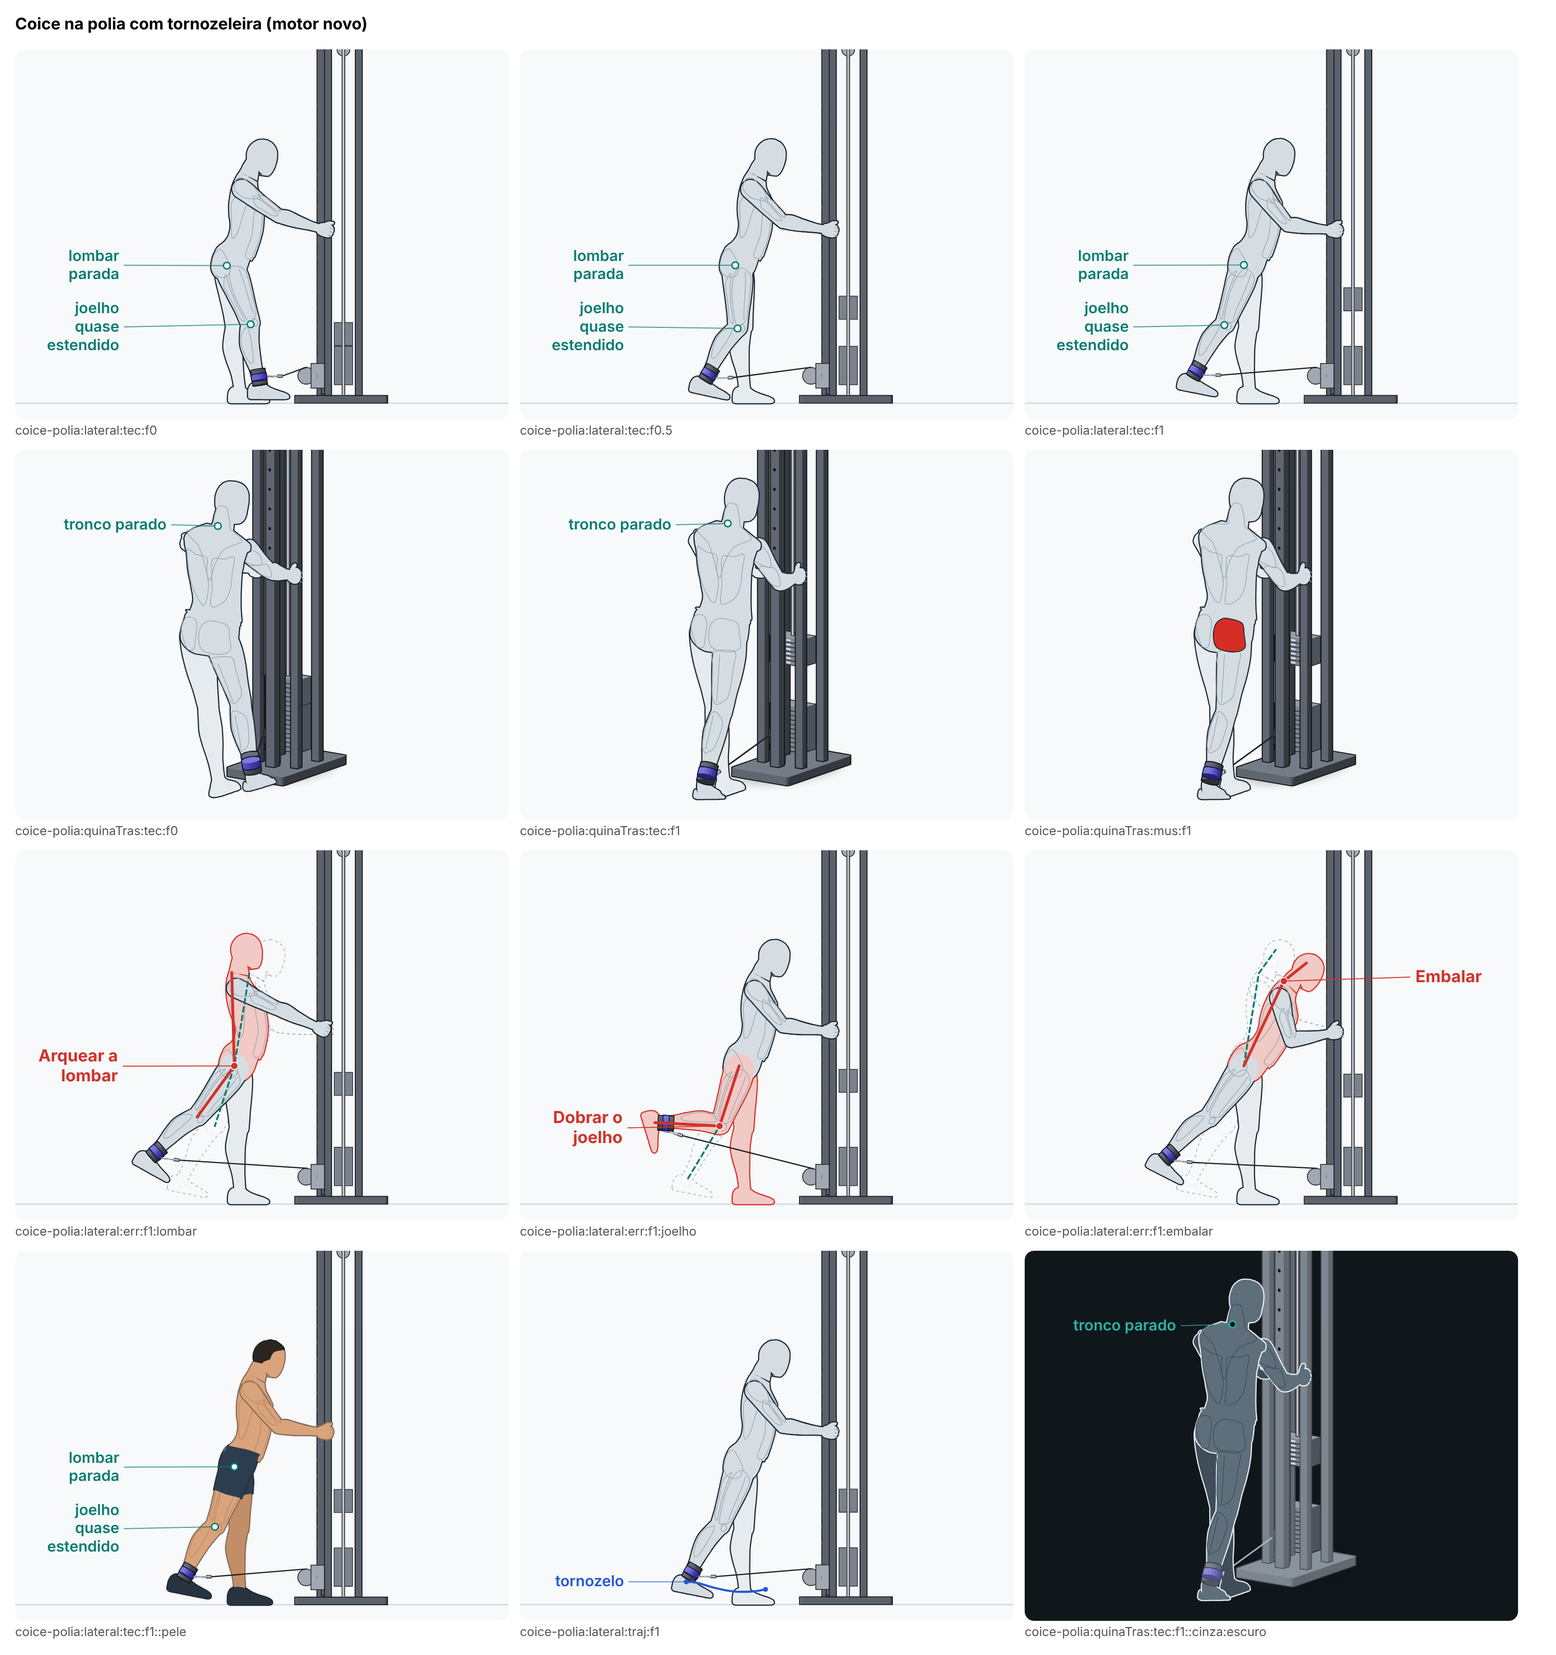
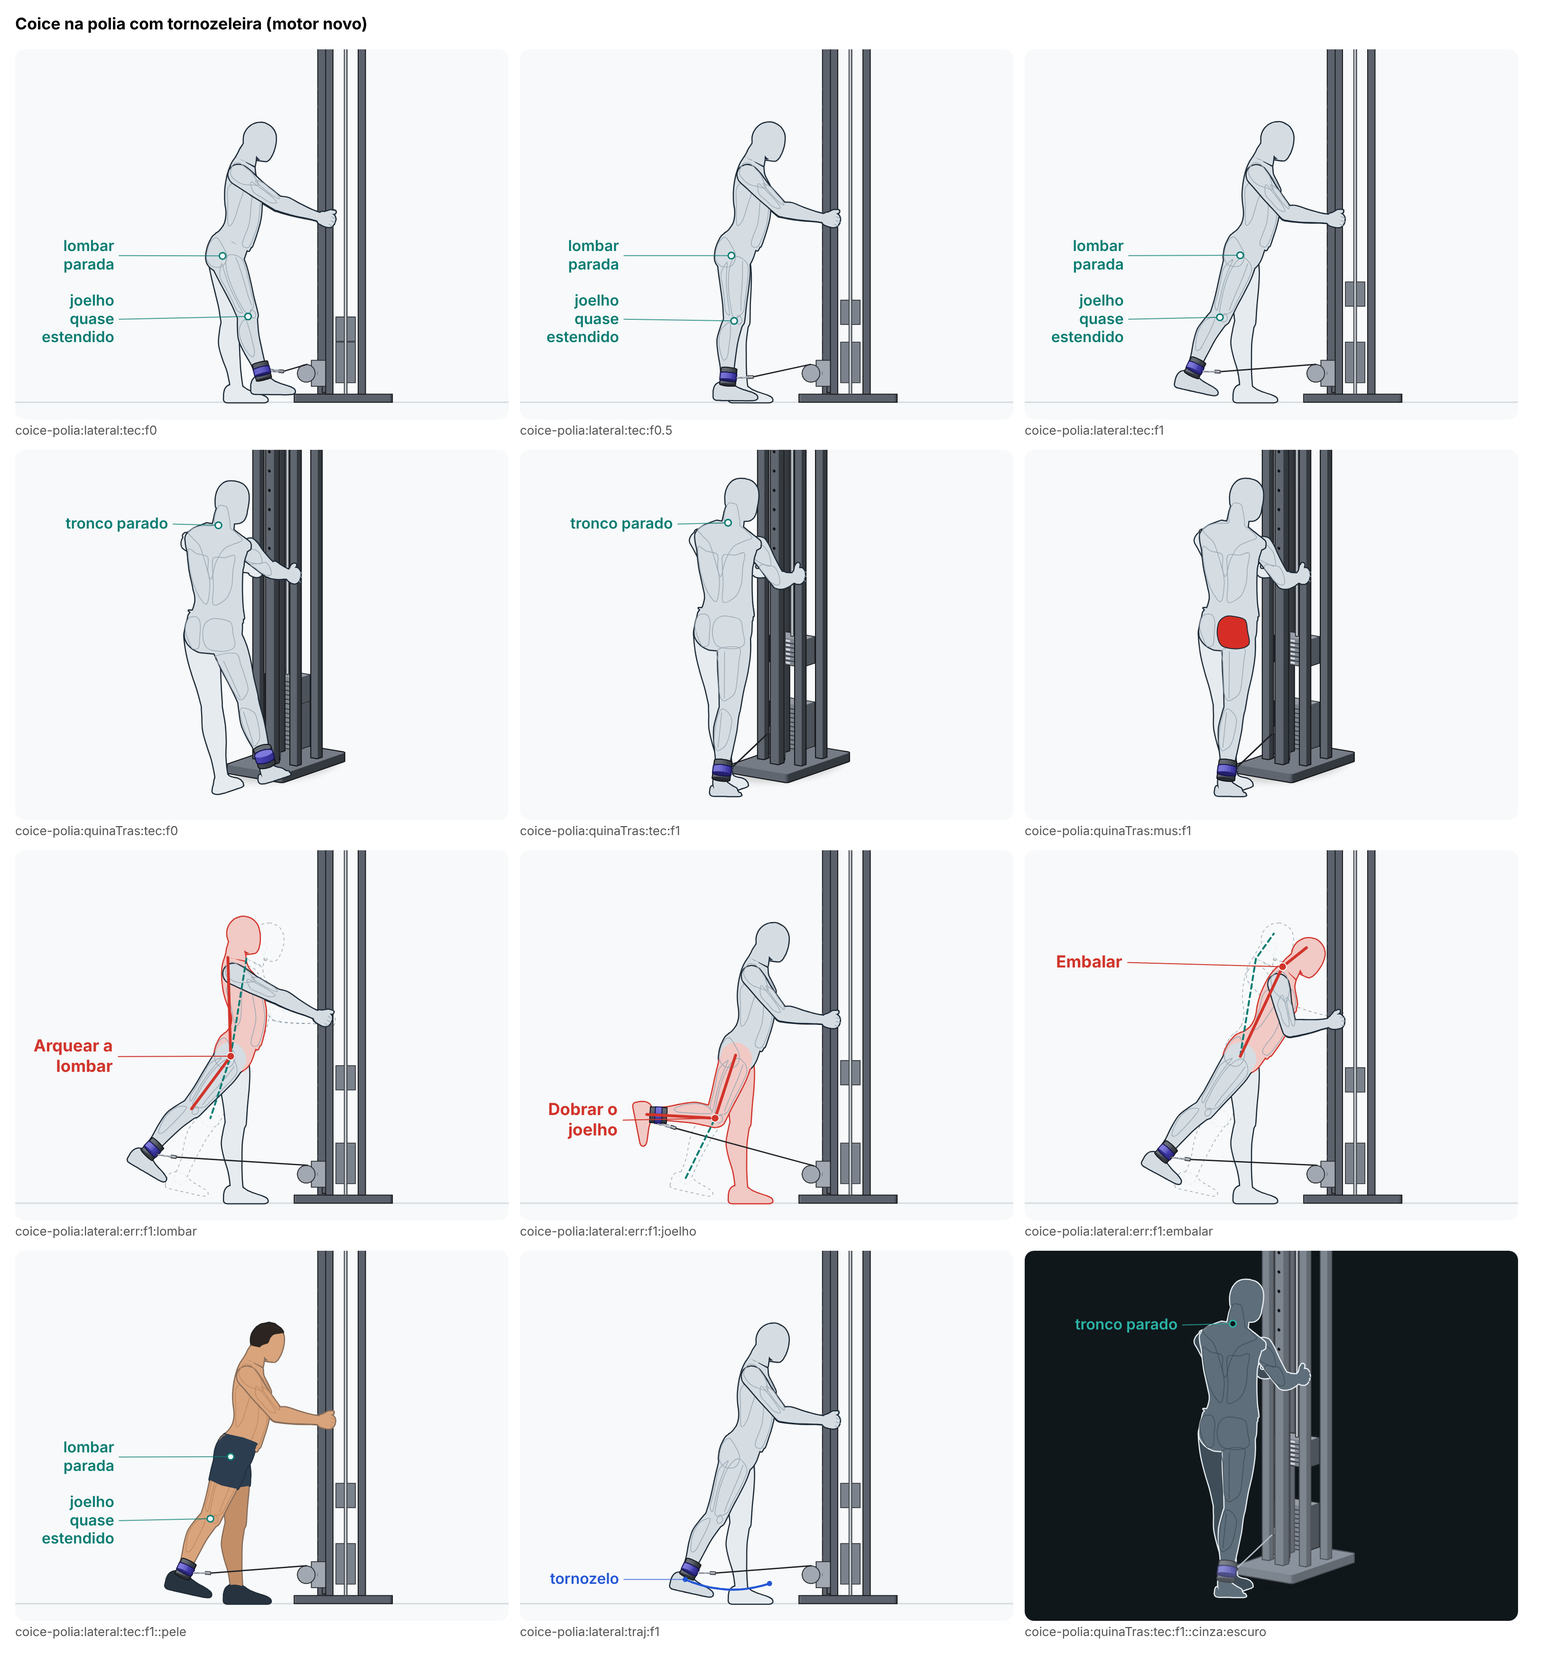
Coice na polia: joelho quase estendido o ciclo todo
O joelho que trabalha dobrava 34° no meio do chute, contra o rótulo
"joelho quase estendido". Agora fica em 8° o ciclo todo: a bacia sobe 4°
do lado que trabalha, em volta do quadril de apoio, parada, e a coluna
devolve a inclinação (o tórax fica reto); o pé passa a 1 cm do chão. A
regra mede o joelho em todos os quadros (até 15°). As regras dos avulsos
ganham também a dos pegadores do abdominal na máquina.

Claude-Session: https://claude.ai/code/session_01YRzts8DBGbsca9onebcMt1

diff --git a/src/engine/novo/regras/avulsos-c3.ts b/src/engine/novo/regras/avulsos-c3.ts
@@ -153,6 +153,44 @@ export const REGRAS_AVULSOS_C3: Record<string, Regra> = {
     const [, pior] = faixa(d);
     return { medido: `o centro da pegada fica a no máximo ${f1(pior)} cm do pegador, ${fecha ? 'com a mão fechada nele' : 'SEM a mão fechada'}; em relação ao tórax, a mão anda ${f1(anda)} cm e o cotovelo vai de ${f1(c0)}° a ${f1(c1)}°`, ok: pior <= 0.5 && fecha && anda <= 8 && c1 - c0 <= 15 };
   },
+  'abdominal-maquina-pegadores-livres-do-corpo': (q) => {
+    // dos dois lados: a haste do braço da máquina (do eixo à almofada), a haste que sai da ponta de baixo da almofada e
+    // a empunhadura não encostam no corpo (fora a mão que segura e o punho dela) e ficam longe do rosto (a cabeça)
+    const esp = obj('abdominalMaquina', 'estofadoEsp'),
+      C = obj('abdominalMaquina', 'almofadaComp'),
+      P = obj('abdominalMaquina', 'pegadorComp');
+    const seg = (p: V3, a: V3, b: V3) => {
+      const ab = sub(b, a);
+      const t = Math.max(0, Math.min(1, dot(sub(p, a), ab) / (dot(ab, ab) || 1)));
+      return dist(p, [a[0] + ab[0] * t, a[1] + ab[1] * t, a[2] + ab[2] * t]);
+    };
+    let corpo = 1e9,
+      rosto = 1e9,
+      onde = '';
+    for (const x of q.filter((_, i) => i % 3 === 0 || i === q.length - 1))
+      for (const k of ['R', 'L'] as const) {
+        const c = x.marcas[`almofada.${k}`]!,
+          n = x.marcas[`almofadaNormal.${k}`]!,
+          ao = x.marcas[`almofadaAo.${k}`]!,
+          pc = x.marcas[`pegador.${k}`]!,
+          pe = x.marcas[`pegadorEixo.${k}`]!;
+        const raiz: V3 = [c[0] + ao[0] * (-C / 2 + 2) + n[0] * esp, c[1] + ao[1] * (-C / 2 + 2) + n[1] * esp, c[2] + ao[2] * (-C / 2 + 2) + n[2] * esp];
+        const base: V3 = [pc[0] - pe[0] * (P / 2 + 3), pc[1] - pe[1] * (P / 2 + 3), pc[2] - pe[2] * (P / 2 + 3)];
+        const ponta: V3 = [pc[0] + pe[0] * (P / 2), pc[1] + pe[1] * (P / 2), pc[2] + pe[2] * (P / 2)];
+        const haste = [0, 1, 2, 3, 4].map((i) => x.marcas[`haste.${k}.${i}`]!);
+        for (const { p, parte } of pontosDoBoneco(x.esq)) {
+          // da pele à superfície de cada tubo (a haste do braço tem 5 cm; a do pegador, 3,5; a empunhadura, o diâmetro dela)
+          const d = Math.min(seg(p, raiz, base) - 1.75, seg(p, base, ponta) - obj('abdominalMaquina', 'pegadorDiam') / 2, ...[0, 1, 2, 3].map((i) => seg(p, haste[i]!, haste[i + 1]!) - 2.5));
+          if (parte === 'cabeca') rosto = Math.min(rosto, d);
+          const daMao = (['R', 'L'] as const).some((j) => ((parte === 'mao' || parte === 'polegar') && dist(p, x.esq.lado[j].pegada) < 14) || (parte === 'ante' && dist(p, x.esq.lado[j].punho) < 8));
+          if (!daMao && d < corpo) {
+            corpo = d;
+            onde = `${parte}, ${k === 'R' ? 'direito' : 'esquerdo'}`;
+          }
+        }
+      }
+    return { medido: `nos dois lados, as hastes do braço da máquina e dos pegadores e a empunhadura ficam a no mínimo ${f1(corpo)} cm da pele (${onde}; fora a mão que segura) e a ${f1(rosto)} cm da cabeça`, ok: corpo >= 0.5 && rosto >= 10 };
+  },
   'abdominal-maquina-pes-presos': (q) => {
     // os dois pés: o peito de cada um sob o rolo do seu lado (dentro do comprimento dele), encostado
     const x = primeiro(q);
@@ -210,11 +248,9 @@ export const REGRAS_AVULSOS_C3: Record<string, Regra> = {
     return { medido: `de lado, a coxa vai de ${f1(frente(a))}° à frente da vertical a ${f1(-frente(b))}° atrás dela, ${f1(Math.abs(passa))}° ${passa >= 0 ? 'além' : 'antes'} da linha do corpo (que desce dos ombros ao quadril)`, ok: frente(a) >= 10 && passa >= 0 && passa <= 12 };
   },
   'coice-polia-joelho-quase-estendido': (q) => {
-    // nas pontas do caminho, quase estendido; no meio, quando o pé passa embaixo do quadril, ele pode dobrar um pouco
-    // para o pé não raspar o chão (como no passo), sem virar uma flexora
+    // o joelho que trabalha quase estendido em todos os quadros (o limite vem da ficha de movimento: `joelho.maximo`)
     const [a, b] = faixa(q.map((x) => x.esq.lado.R.ang.joelho));
-    const pontas = Math.max(primeiro(q).esq.lado.R.ang.joelho, ultimo(q).esq.lado.R.ang.joelho);
-    return { medido: `o joelho da perna que trabalha dobra ${f1(pontas)}° no máximo nas pontas do caminho e de ${f1(a)}° a ${f1(b)}° no caminho todo`, ok: pontas <= 15 && b <= 35 };
+    return { medido: `o joelho da perna que trabalha dobra de ${f1(a)}° a ${f1(b)}° no caminho todo`, ok: b <= 15 };
   },
   'coice-polia-tronco-parado-a-frente': (q) => {
     const peito = (e: Esq) => (Math.atan2(e.torax.y[2], e.torax.y[1]) * 180) / Math.PI;
@@ -223,11 +259,14 @@ export const REGRAS_AVULSOS_C3: Record<string, Regra> = {
     return { medido: `o peito fica de ${f1(a)}° a ${f1(b)}° à frente da vertical; a lombar dobra no mínimo ${f1(lombar)}° além da curva de repouso (negativo = arqueia)`, ok: a >= 5 && b <= 25 && b - a <= 1.5 && lombar >= -1 };
   },
   'coice-polia-bacia-nao-gira': (q) => {
+    // a bacia não gira nem rola no ciclo (o pouco que ela sobe do lado que trabalha fica parado), o tórax fica reto e a
+    // coxa não abre para o lado
     const graus = (x: number) => (Math.asin(Math.max(-1, Math.min(1, x))) * 180) / Math.PI;
-    const rola = Math.max(...q.map((x) => Math.abs(graus(x.esq.pelve.x[1]))));
+    const [r0, r1] = faixa(q.map((x) => graus(x.esq.pelve.x[1])));
     const gira = Math.max(...q.map((x) => Math.abs(graus(x.esq.pelve.z[0]))));
+    const torax = Math.max(...q.map((x) => Math.abs(graus(x.esq.torax.y[0]))));
     const abre = Math.max(...q.map((x) => Math.abs(angulosDoLado(x.esq, 'R').abducaoDoQuadril)));
-    return { medido: `a linha dos quadris fica a no máximo ${f1(rola)}° da horizontal e a bacia gira ${f1(gira)}°; a coxa abre no máximo ${f1(abre)}° para o lado`, ok: rola <= 2 && gira <= 2 && abre <= 6 };
+    return { medido: `a linha dos quadris fica de ${f1(Math.abs(r0))}° a ${f1(Math.abs(r1))}° da horizontal (o lado que trabalha mais alto) e a bacia gira ${f1(gira)}°; o tórax inclina ${f1(torax)}° para o lado; a coxa abre no máximo ${f1(abre)}° para o lado`, ok: Math.max(Math.abs(r0), Math.abs(r1)) <= 5 && r1 - r0 <= 0.5 && gira <= 2 && torax <= 2 && abre <= 6 };
   },
   'coice-polia-maos-na-torre': (q) => {
     const d = q.flatMap((x) => (['R', 'L'] as const).map((k) => Math.hypot(x.esq.lado[k].pegada[0] - x.marcas[`montante.${k}`]![0], x.esq.lado[k].pegada[2] - x.marcas[`montante.${k}`]![2])));

diff --git a/src/engine/novo/exercicios/coice-polia.ts b/src/engine/novo/exercicios/coice-polia.ts
@@ -8,8 +8,9 @@
 // esquerda), o joelho de apoio quase estendido, a pelve parada no ponto em que o centro de massa cai sobre o meio do pé
 // de apoio (calibrado no começo e no fim, e misturado no caminho). A inclinação do tronco vem da bacia, que gira à
 // frente sobre o quadril de apoio, com a coluna neutra. As mãos fecham nos dois montantes da frente da torre; a torre
-// fica à distância em que os cotovelos ficam um pouco dobrados. O joelho da perna livre dobra o mínimo para o pé não
-// raspar o chão quando passa embaixo do quadril.
+// fica à distância em que os cotovelos ficam um pouco dobrados. A perna que trabalha fica quase estendida o ciclo todo
+// (o joelho a 8°): para o pé passar embaixo do quadril sem raspar o chão, a bacia sobe 4° do lado dela, em volta do
+// quadril de apoio, e a coluna devolve a inclinação (o tórax fica reto); o pé fica com a sola perto da horizontal.
 //
 // O cabo sai da roldana baixa, na frente, e vai reto até a argola da tornozeleira, que fica do lado da faixa virado para
 // ela; a pilha sobe o que o cabo anda dividido pela relação da máquina (./polia-no-tornozelo.ts).
@@ -51,7 +52,7 @@ interface Base {
   sx1: number;
   sz1: number;
   joelhoLivre: number;
-  /** O centro de cada pegada, nos montantes da frente da torre. `joelhoLivre`: quanto o joelho dobra com a coxa na vertical. */
+  /** O centro de cada pegada, nos montantes da frente da torre. `joelhoLivre`: quanto o joelho que trabalha dobra. */
   maos: Record<Lado, V3>;
   repouso: number;
 }
@@ -61,7 +62,22 @@ const pernaDeApoio = (corpo: Corpo): PosePerna => ({
   polo: norm([0.08, 0, 1]),
 });
 
-const tronco = (corpo: Corpo, p: Pedido): Tronco => resolverTronco(corpo, { pelve: [p.sx, p.y, p.sz], frente: p.frente, lombar: p.lombar, cervical: f('cervical'), cabeca: f('cabeca') });
+/**
+ * O tronco: a bacia inclinada à frente (`frente`) e subindo `bacia.sobe` graus do lado que trabalha, em volta do quadril
+ * de apoio (que fica no lugar); a coluna devolve a inclinação de lado (metade na lombar, metade na torácica), e o tórax
+ * fica reto.
+ */
+function tronco(corpo: Corpo, p: Pedido): Tronco {
+  const sobe = f('bacia.sobe');
+  const pose = { pelve: [p.sx, p.y, p.sz] as V3, frente: p.frente, lombar: p.lombar, cervical: f('cervical'), cabeca: f('cabeca') };
+  if (!sobe) return resolverTronco(corpo, pose);
+  const t0 = resolverTronco(corpo, pose);
+  const hq = corpo.m('quadril.meiaDistancia');
+  const quadrilL = add(t0.pelve.o, mul(t0.pelve.x, hq));
+  const lado = { ...pose, lado: sobe, lombarLado: -sobe / 2, toracicaLado: -sobe / 2 };
+  const x = resolverTronco(corpo, { ...lado, pelve: [0, 0, 0] }).pelve.x;
+  return resolverTronco(corpo, { ...lado, pelve: sub(quadrilL, mul(x, hq)) });
+}
 
 /** Cada mão fechada num montante da torre (tubos em pé), o polegar para cima, o cotovelo para baixo e para fora. */
 const MAO_NO_MONTANTE = (k: Lado, pegada: V3): PoseBraco => ({ pegada, polo: norm([sinal(k) * 0.5, -1, -0.3]), mao: { polegar: [0, 1, 0], forma: 'pegada', diam: f('torre.montanteDiam') } });
@@ -152,7 +168,7 @@ function calibrar(corpo: Corpo): Base {
       b.maos = { R: [xm - meia, f('torre.mao.altura'), z], L: [xm + meia, f('torre.mao.altura'), z] };
       [b.sx0, b.sz0, b.y0] = sobre(0, b.sx0, b.sz0, b.y0);
       [b.sx1, b.sz1, b.y1] = sobre(1, b.sx1, b.sz1, b.y1);
-      b.joelhoLivre = baixo(f('joelho.livre')) >= f('pe.livre.acimaDoChao') ? f('joelho.livre') : resolver1((j) => baixo(j) - f('pe.livre.acimaDoChao'), f('joelho.livre'), 35, 24);
+      b.joelhoLivre = baixo(f('joelho.livre')) >= f('pe.livre.acimaDoChao') ? f('joelho.livre') : resolver1((j) => baixo(j) - f('pe.livre.acimaDoChao'), f('joelho.livre'), f('joelho.maximo'), 24);
     }
     const t = torreDas(b.maos);
     let rep = 1e9;
@@ -163,15 +179,11 @@ function calibrar(corpo: Corpo): Base {
 }
 
 /**
- * O joelho da perna que trabalha: quase estendido nas pontas (`joelho.livre`) e dobrado `meio` graus quando a coxa passa
- * embaixo do quadril (a coxa perto da vertical), para o pé não raspar o chão, como no passo; no caminho, um sino (o
- * quadrado do cosseno do ângulo da coxa), sem tranco.
+ * O joelho da perna que trabalha: quase estendido e parado o ciclo todo (`meio`: o que a calibração achou, entre
+ * `joelho.livre` e `joelho.maximo`, para o pé passar sem raspar o chão embaixo do quadril).
  */
-function joelhoNoCaminho(u: number, meio: number): number {
-  const coxa = mix(f('coxa.inicio'), f('coxa.fim'), u) - f('tronco.inclina') - f('joelho.sinoCentro');
-  const largura = f('joelho.sino');
-  const s = Math.abs(coxa) >= largura ? 0 : Math.cos(((coxa / largura) * Math.PI) / 2) ** 2;
-  return mix(f('joelho.livre'), meio, s);
+function joelhoNoCaminho(_u: number, meio: number): number {
+  return meio;
 }
 
 function pedido(b: Omit<Base, 'repouso'>, u: number, erro?: string): Pedido {

diff --git a/docs/revisoes/animacao-nova/lote-C3/coice-polia.md b/docs/revisoes/animacao-nova/lote-C3/coice-polia.md
@@ -18,13 +18,23 @@ A ficha da técnica pede o coice **em pé** ("de frente para a torre, mãos apoi
 | De frente para a torre, mãos apoiadas nela | consenso | as duas mãos fecham nos montantes da frente da coluna, a 112 cm do chão (0 cm do eixo, paradas), os cotovelos a 20° no começo | sim |
 | Polia no ponto mais baixo, tornozeleira na perna que trabalha | consenso | o carrinho a 17,8 cm; a tornozeleira 2 cm acima do centro do tornozelo, assentada (0,7 cm além da pele) | sim |
 | Tronco levemente inclinado à frente | consenso | o peito a 13,3° da vertical, parado (a bacia gira 12° sobre o quadril de apoio, com a coluna neutra) | sim |
-| Leva a perna para trás até a coxa passar um pouco da linha do corpo; volta até a frente do corpo | um estudo | de lado, a coxa vai de 22,1° à frente da vertical a 18° atrás dela, 8,8° além da linha do corpo (que desce dos ombros ao quadril) | sim |
-| Joelho quase estendido | um estudo | 13° nas pontas do caminho; **34° no meio**, quando o pé passa embaixo do quadril (ver "O que não ficou bom") | em parte |
+| Leva a perna para trás até a coxa passar um pouco da linha do corpo; volta até a frente do corpo | um estudo | de lado, a coxa vai de 22,3° à frente da vertical a 18,1° atrás dela, 8,9° além da linha do corpo (que desce dos ombros ao quadril) | sim |
+| Joelho quase estendido | um estudo | **8° o ciclo todo** (limite da ficha de movimento, `joelho.maximo`: 15°); o pé passa embaixo do quadril a 1 cm do chão | sim |
 | Sem arquear a lombar | consenso | a lombar não passa da curva de repouso (0°) | sim |
-| (O peso no pé de apoio; a bacia não gira) | consenso | o centro de massa de 35,3% a 37% do calcanhar à ponta do pé de apoio, sobre o eixo dele; a bacia não rola nem gira (0°); a coxa abre 5° para o lado (o pé passa ao lado do outro) | sim |
-| O cabo da roldana ao tornozelo, a pilha que sobe | consenso | o cabo a no mínimo 4,5 cm da pele; anda 45,1 cm e a pilha sobe 22,6 cm (relação 2:1) | sim |
+| (O peso no pé de apoio; a bacia parada) | consenso | o centro de massa de 37% a 37,2% do calcanhar à ponta do pé de apoio, sobre o eixo dele; a bacia sobe 3,9° do lado que trabalha e fica assim o ciclo todo (não rola nem gira no movimento); o tórax fica reto (0,9°); a coxa abre 5° para o lado (o pé passa ao lado do outro) | sim |
+| O cabo da roldana ao tornozelo, a pilha que sobe | consenso | o cabo a no mínimo 7,2 cm da pele; anda 43,2 cm e a pilha sobe 21,6 cm (relação 2:1) | sim |
 
-**Conferência automática: 0 falha, 2 avisos.** (1) A dorsiflexão do tornozelo chega a 20° (a média da tabela de amplitudes é 14,8°; o máximo, 48°): é o pé da perna que trabalha dobrando para cima quando o joelho dobra no meio, para a ponta não raspar o chão. (2) As linhas que são escolha de desenho.
+**Conferência automática: 0 falha, 1 aviso** (as linhas que são escolha de desenho).
+
+## A revisão de 18/11: o joelho que trabalha
+
+Na primeira versão, o joelho dobrava até 34° no meio do chute, e o rótulo dizia "joelho quase estendido". A conta: com a bacia nivelada e o joelho de apoio a 3°, a perna livre estendida e na vertical é ~1 cm mais comprida que a distância do quadril ao chão, e o calcanhar fica 7,2 cm abaixo do tornozelo. Das saídas propostas:
+- **o tronco mais inclinado à frente** não muda a altura do quadril (a bacia gira em volta dele): não ajuda;
+- **o joelho de apoio mais dobrado** abaixa o quadril e piora (cada grau a mais tira altura);
+- **a perna começando mais à frente** não muda o meio do caminho, onde a coxa passa pela vertical;
+- **a bacia subindo do lado que trabalha** resolve: 4° (`bacia.sobe`) levantam o quadril que trabalha 1,2 cm. Com a abertura de 5° (0,3 cm), o joelho fica em 8° e o pé passa a 1 cm do chão.
+
+A bacia sobe em volta do quadril de apoio, que fica no lugar, e fica parada assim o ciclo todo (3,9° medidos; não rola no movimento). A coluna devolve a inclinação, metade na lombar e metade na torácica: o tórax fica reto (0,9°). É o que o corpo faz em pé num pé só para a perna livre passar, e não é o erro "embalar" (o tronco não balança) nem "arquear a lombar" (a lombar não se estende). A regra `coice-polia-joelho-quase-estendido` mede o joelho em todos os quadros (até 15°), e `coice-polia-bacia-nao-gira` aceita até 5° de bacia, parada. O pé da perna que trabalha fica com a sola perto da horizontal (dobra até 14° para cima, abaixo da média da tabela de amplitudes).
 
 ## As vistas
 
@@ -38,10 +48,14 @@ A ficha da técnica pede o coice **em pé** ("de frente para a torre, mãos apoi
 | Dobrar o joelho | de lado | o joelho dobra até 75° no fim: vira uma flexora |
 | Embalar | de lado | o tronco cai 16° a mais à frente (o peito a 29,3°) enquanto a perna vai para trás; os cotovelos dobram até 92° |
 
+## Os dois lados
+
+As duas mãos nos montantes (0 cm do eixo de cada um, paradas); o pé de apoio parado; a perna que trabalha com a tornozeleira. Olhei a mão e a perna de longe nas duas vistas.
+
 ## O que não ficou bom
 
-- **O joelho dobra até 34° no meio do caminho.** Em pé num pé só, a perna livre estendida e na vertical é ~1 cm mais comprida que a distância do quadril ao chão: o calcanhar entra no chão. Tentei a perna reta com o pé esticado ou dobrado (a ponta ou o calcanhar raspam), o joelho de apoio mais reto (ganha 0,1 cm) e a perna um pouco aberta (5°, ganha 0,3 cm). O que resolve é o que o corpo faz no passo: o joelho dobra quando o pé passa embaixo, num sino suave (13° nas pontas, 34° no meio). O rótulo "joelho quase estendido" fica certo nas pontas, mas no meio o joelho se vê dobrado.
+- **A bacia fica 3,9° mais alta do lado que trabalha.** De trás se percebe pouco; o tórax fica reto. É a saída que deixa o joelho quase estendido.
 - **No erro de arquear a lombar, o tronco sobe e os braços esticam** (cotovelo a 2°): as mãos ficam presas na torre.
 - A tornozeleira tem a argola e o mosquetão provisórios.
 
-**Risco de o Gustavo não gostar: médio a alto** (o joelho que dobra no meio pode parecer "flexora"; é o primeiro coice em pé do motor).
+**Risco de o Gustavo não gostar: médio** (é o primeiro coice em pé do motor; a bacia levemente alta do lado que trabalha).
